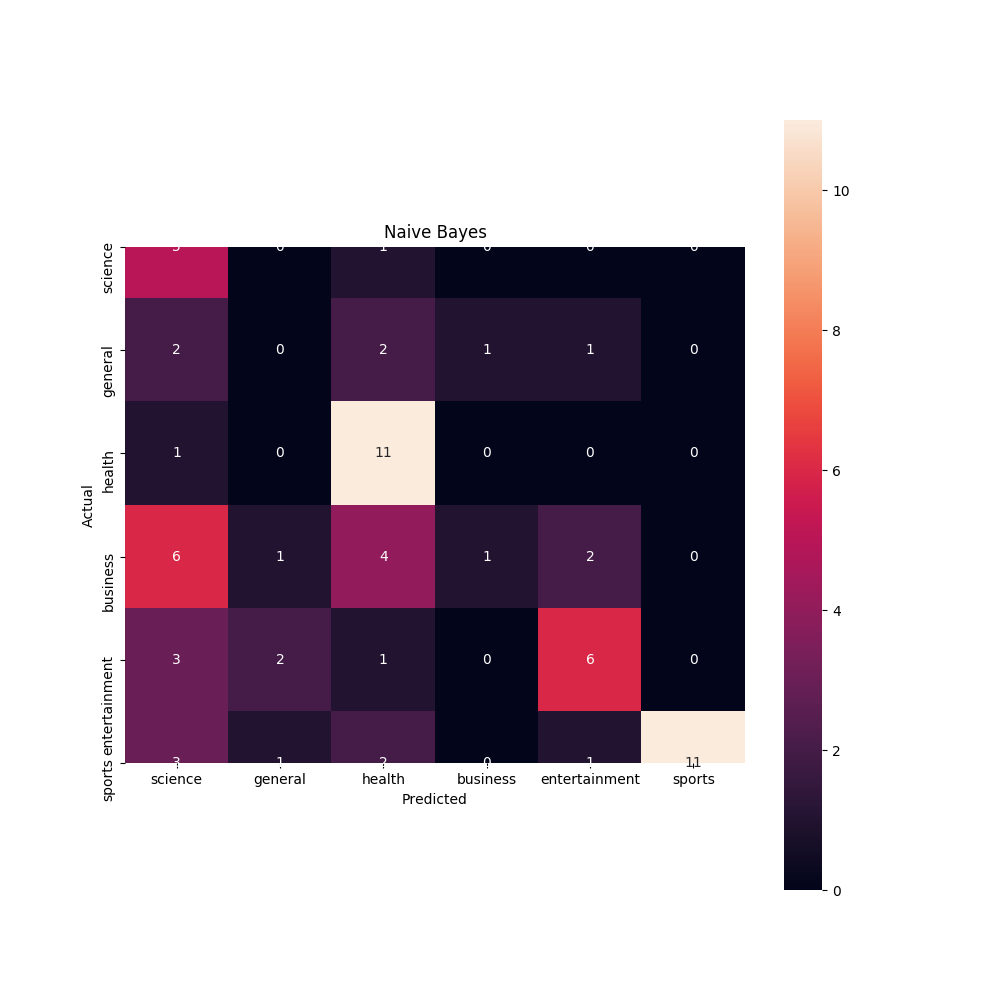
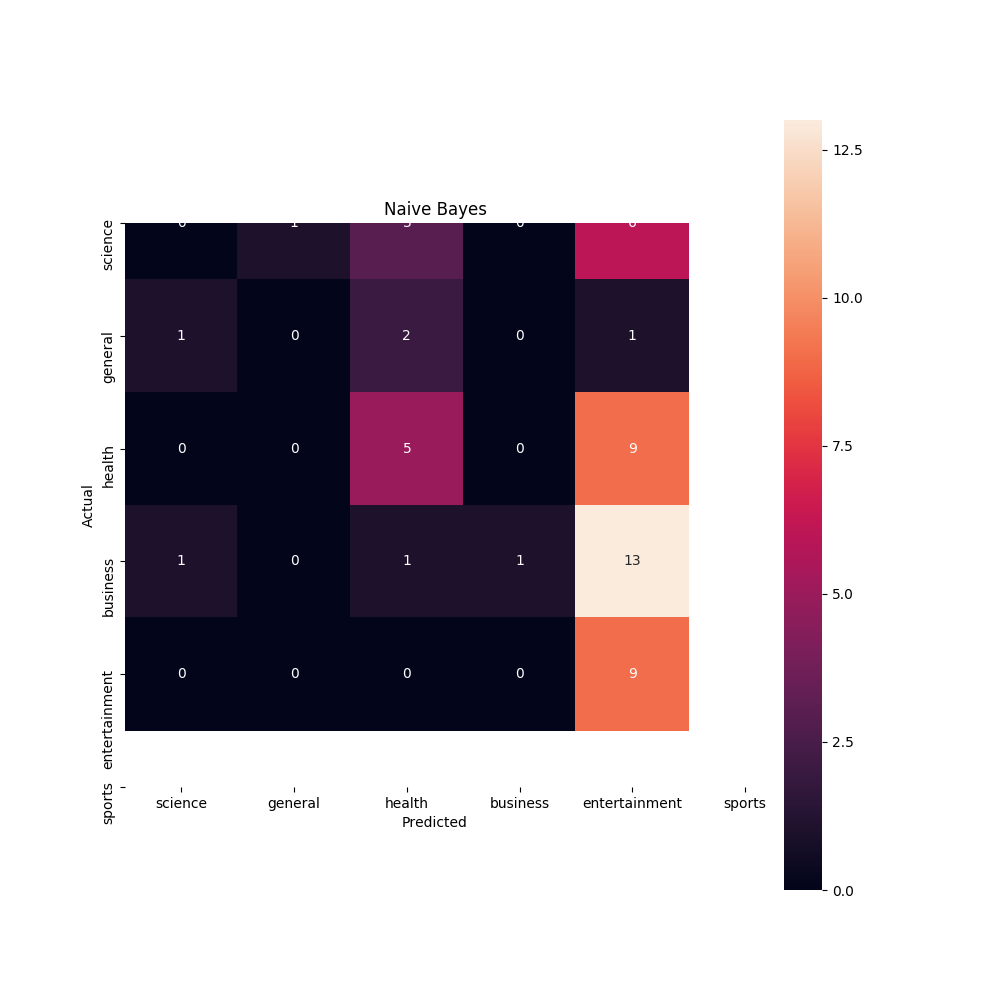
run in json file

Changed region(s): [[0.093, 0.186, 0.744, 0.837], [0.837, 0.279, 0.868, 0.31], [0.837, 0.124, 0.868, 0.155]]

diff --git a/news.py b/news.py
@@ -11,18 +11,18 @@ def countData(df):
     for i in Alltop:
         TopNum[i] = 0
     for j in range(len(df)):
-        TopNum[Alltop[df[j]['label']]] += 1
+        TopNum[Alltop[df.iloc[j]['label']]] += 1
     print("Articles:", TopNum)
 
 def news_data():
     print("Get news articles from newsapi.NewsApiClient in 6 categories")
-    for i in range(len(Alltop)):
-        # get all data from newsAPI
-        df = pd.read_json("data.json")
-        countData(df)
+
+    # get all data from json file
+    df = pd.read_json("data.json")
+    countData(df)
 
     # make training data and testing data
     from sklearn.model_selection import train_test_split
     trainX, testX, trainY, testY = train_test_split(df[:]['content'], df[:]['label'], test_size=0.25, random_state=1000)
     return (trainX, trainY), (testX, testY)
-#news_data()
+news_data()
